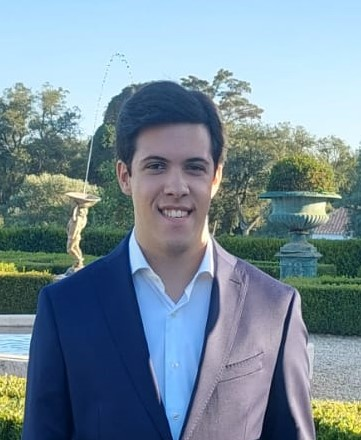
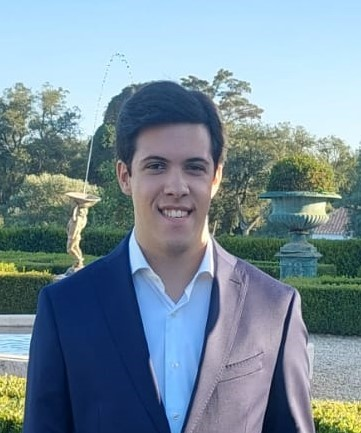
Fix some Images

diff --git a/index.html b/index.html
@@ -303,7 +303,7 @@
                     <div class="col-lg-4 col-md-6 col-sm-6">
                         <div class="single-team mb-30">
                             <div class="team-img">
-                                <img src="assets/img/gallery/fkboyoriginal.jpg" alt="">
+                                <img src="assets/img/gallery/daniel.jpg" alt="">
                                 <div class="team-caption">
                                     <!--<span>Creative derector</span>-->
                                     <h3><a href="#">Daniel Emidio</a></h3>
